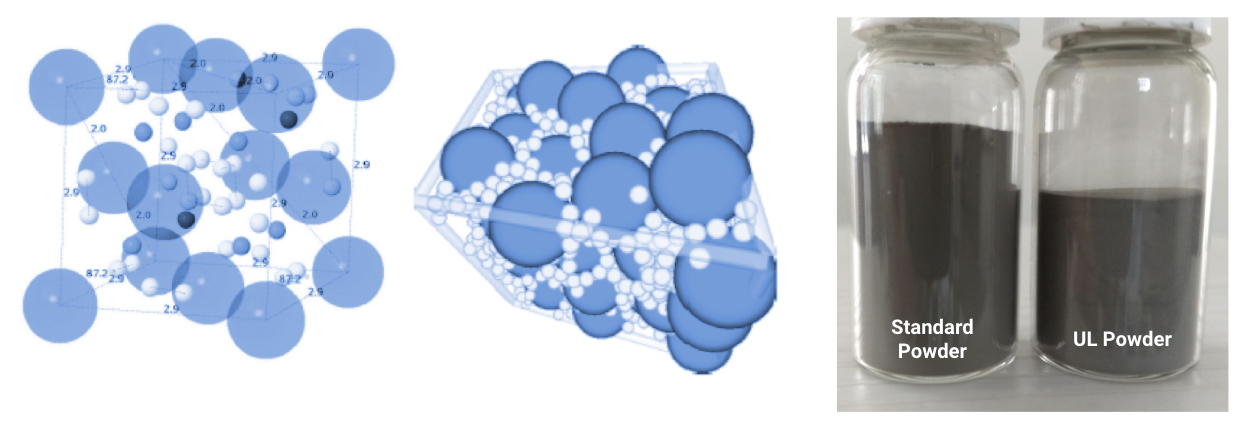
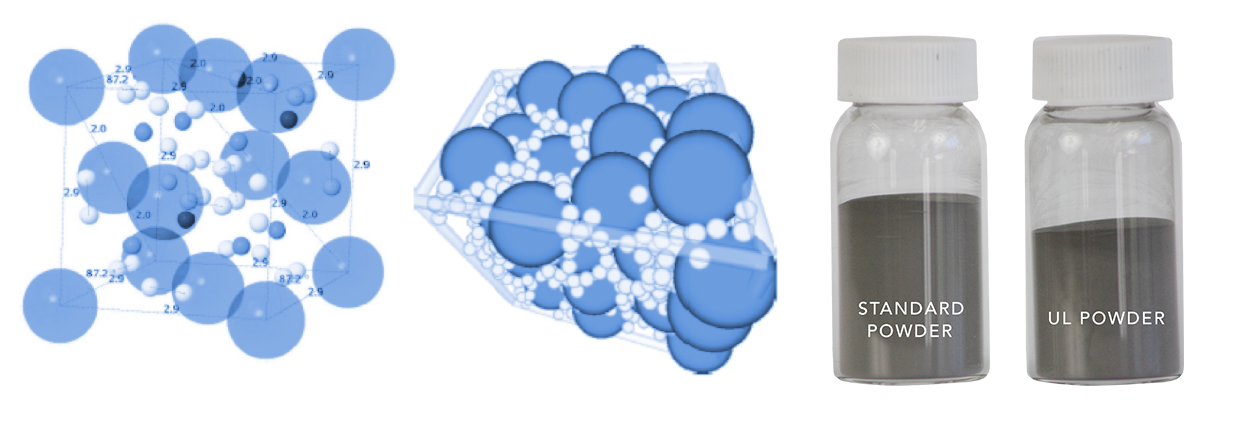
test

Changed region(s): [[0.6435, 0.0305, 1.0, 0.9765]]

diff --git a/index.html b/index.html
@@ -279,7 +279,7 @@
 
           <!-- SCROLL ICON -->
           <div class="local-scroll-cont font-white">
-            <a href="#about" class="scroll-down smooth-scroll">
+            <a href="#intro" class="scroll-down smooth-scroll">
               <div class="icon icon-arrows-down"></div>
             </a>  
           </div>
@@ -287,13 +287,13 @@
         </div>
         
 				<!-- FEATURES 1 -->
-				<div class="page-section">
-					<div class="container fes1-cont pb-0" style="padding-top: 20px; padding-bottom: 0px">
+				<div class="page-section" id="intro">
+					<div class="container fes1-cont pb-0" style="padding-top: 0px; padding-bottom: 0px">
 						<div class="row">    
               <div class="col-md-12" style="padding-bottom: 0px">
-                <div class="fes1-main-title-cont wow fadeInDown" style="padding-bottom: 0px; margin-bottom: 0px">
+                <div class="fes1-main-title-cont wow fadeInDown">
                   <div class="fes1-title-50 font-poppins" style="color: #393939; font-size:16px; line-height:20px; padding-bottom: 0px">
-                    <b>UNIFORMITY LABS</b> is an additive manufacturing (AM) parts, printing, and metal feedstock producer that has pioneered revolutionary refining and printing processes that significantly enhance the 3D printing value proposition. Our feedstock materials and print processes have a dramatic impact throughout the AM value chain by increasing the speed, quality, reliability, efficiency, and economics of printing. Uniformity product offerings consist of powders and parts for heavy equipment manufacturers, automotive manufacturers, consumer electronics companies, aerospace suppliers, energy generation and oil & gas, the U.S. federal government, and other participants in the global AM industry.
+                    <b>UNIFORMITY LABS</b> is an additive manufacturing (AM) parts, printing, and metal feedstock producer that has pioneered revolutionary refining and printing processes that significantly enhance the 3D printing value proposition. Our feedstock materials and print processes have a dramatic impact throughout the AM value chain by increasing the speed, quality, reliability, efficiency, and economics of printing.
                   </div>
                 </div>
               </div> 					     
@@ -305,53 +305,72 @@
         <div id="products" class="page-section pt-120-b-110-cont" style="padding-bottom: 0px; padding-top: 0px">
           <div class="container">
             <div class="row">
-              <div class="divider divider-center"><i class="fa fa-square"></i></div>
-              <!-- Post Item 3 -->
-              <div class="col-md-6 wow fadeIn" data-wow-delay="100ms" >
-                <div class="post-prev-img">
-                  <a href="#advancedmaterials"><img src="images/advancedmaterials.jpg" alt="img"></a>
-                </div>   
+              <div class="col-md-12 wow fadeIn pb-10" data-wow-delay="100ms" >
+                  <a href="#advancedmaterials"><img src="images/advancedmaterials2.jpg" alt="img"></a>
               </div>
-              <div class="col-md-6 wow fadeIn" data-wow-delay="200ms" >
-                <h4 style="margin-top: 0px" id="advancedmaterials">Disruptively Advanced: Ultra Low Porosity Feedstock</h4> 
-                <div>
-                  • Full suite of metal materials and proprietary alloys for powder bed fusion, jetting and other platforms <br/>
-                  • Segmented material grades offered to suit customer cost and quality preferences <br/>
-                </div>
+              <div class="col-md-12 wow fadeIn" data-wow-delay="200ms" >
+                  
               </div>
 
-              <div class="col-md-12" style="padding-bottom: 30px;">    
+              <div class="col-md-12" style="padding-bottom: 30px; padding-top: 30px">    
                 <div class=row>
                   <div class="col-sm-6 col-md-6 wow fadeIn" data-wow-delay="200ms" >
                     <img src="images/product4.png">
                   </div>
                   <div class="col-sm-6 col-md-6 wow fadeIn" data-wow-delay="200ms" >
-                    Uniformity powders attain high relative densities, approaching that of the densest crystalline particle packings, while retaining their ability to flow without phase separation. Uniformity’s powder is comprised of an optimized maximally random jammed packing of particle sizes that: <br/>
-                    • Exhibit negligible phase separation <br/>
-                    • Maintain low viscosity / high fluidity <br/>
-                    • Possess increased contact points between particles <br/>
+                    Uniformity provides a full suite of metal materials and proprietary alloys for powder bed fusion, jetting and other platforms and segmented material grades. Uniformity powders attain high relative densities, approaching that of the densest crystalline particle packings, while retaining their ability to flow without phase separation: <br/>
+                    • Exhibits negligible phase separation and maintains low viscosity / high fluidity <br/>
+                    • Possesses increased contact points between particles <br/>
                     • Resulting porosity is reduced to 15% - 25% (compared to 40% - 50%)
                   </div>
                 </div>
               </div>
 
-              <div class="divider divider-center"><i class="fa fa-square"></i></div>
-
-              <div class="col-md-6 wow fadeIn" data-wow-delay="100ms" >
-                <div class="post-prev-img">
+              <div class="col-md-12 wow fadeIn" data-wow-delay="100ms" >
                   <a href="#advancedmaterials"><img src="images/partfabrication.jpg" alt="img"></a>
-                </div>   
               </div>
-              <div class="col-md-6 wow fadeIn" data-wow-delay="100ms" >
-                <h4 style="margin-top: 0px" id="advancedmaterials">Innovative fabrication technology and software</h4> 
-                <div>
-                  • Small batch production of printed parts at Uniformity <br/>
-                  • Part redesign, optimization for AM <br/>
-                  • UL software and print demonstrations, training and design for AM <br/>
-                  • Printer selection, printer setup with Uniformity powder and print processes
+              <div class="col-md-12 wow fadeIn" data-wow-delay="100ms" style="padding-top: 30px">
+                <div class="col-md-3 col-sm-6">
+                  <div class="cis-cont">
+                    <div class="cis-icon">
+                      <div class="icon icon-ecommerce-bag-cloud"></div>
+                    </div>
+                    <div class="cis-text">
+                      <p>Small batch production of printed parts at Uniformity</p>
+                    </div>
+                  </div>
+                </div>
+                <div class="col-md-3 col-sm-6">
+                  <div class="cis-cont">
+                    <div class="cis-icon">
+                      <div class="icon icon-basic-settings"></div>
+                    </div>
+                    <div class="cis-text">
+                      <p>Part redesign and optimization for additive manufacturing</p>
+                    </div>
+                  </div>
+                </div>
+                <div class="col-md-3 col-sm-6">
+                  <div class="cis-cont">
+                    <div class="cis-icon">
+                      <div class="icon icon-basic-display"></div>
+                    </div>
+                    <div class="cis-text">
+                      <p>Software / print demos, training / design</p>
+                    </div>
+                  </div>
+                </div>
+                <div class="col-md-3 col-sm-6">
+                  <div class="cis-cont">
+                    <div class="cis-icon">
+                      <div class="icon icon-basic-printer"></div>
+                    </div>
+                    <div class="cis-text">
+                      <p>Printer selection / setup with Uniformity processes</p>
+                    </div>
+                  </div>
                 </div>
               </div>
-
             </div>
           </div>
         </div>
@@ -444,7 +463,8 @@
                   </div>
                   <div class="col-md-6 col-sm-12 pb-10">
                     <div class="fes5-box wow fadeIn">
-                      <h4 style="color: gray">Uniformity’s powder, printing and software services achieves significant improvements in all additive manufacturing areas, which will accelerate the growth of the entire market.</h4>
+                      <h4 style="color: gray">Uniformity’s powder, printing and software services achieves significant improvements in all additive manufacturing areas, which will accelerate the growth of the entire market.</h4> 
+                      <i class="fa fa-car" style="padding-right:5px"></i> Automotive <i class="fa fa-truck" style="padding-left:5px; padding-right:5px"></i> Heavy Equipment <i class="fa fa-plane" style="padding-left:5px; padding-right:5px"></i> Aerospace <i class="fa fa-institution" style="padding-left:5px; padding-right:5px"></i> Government <i class="fa fa-flash" style="padding-left:5px; padding-right:5px"></i> Energy/Oil
                     </div>
                   </div>
                 </div>               
